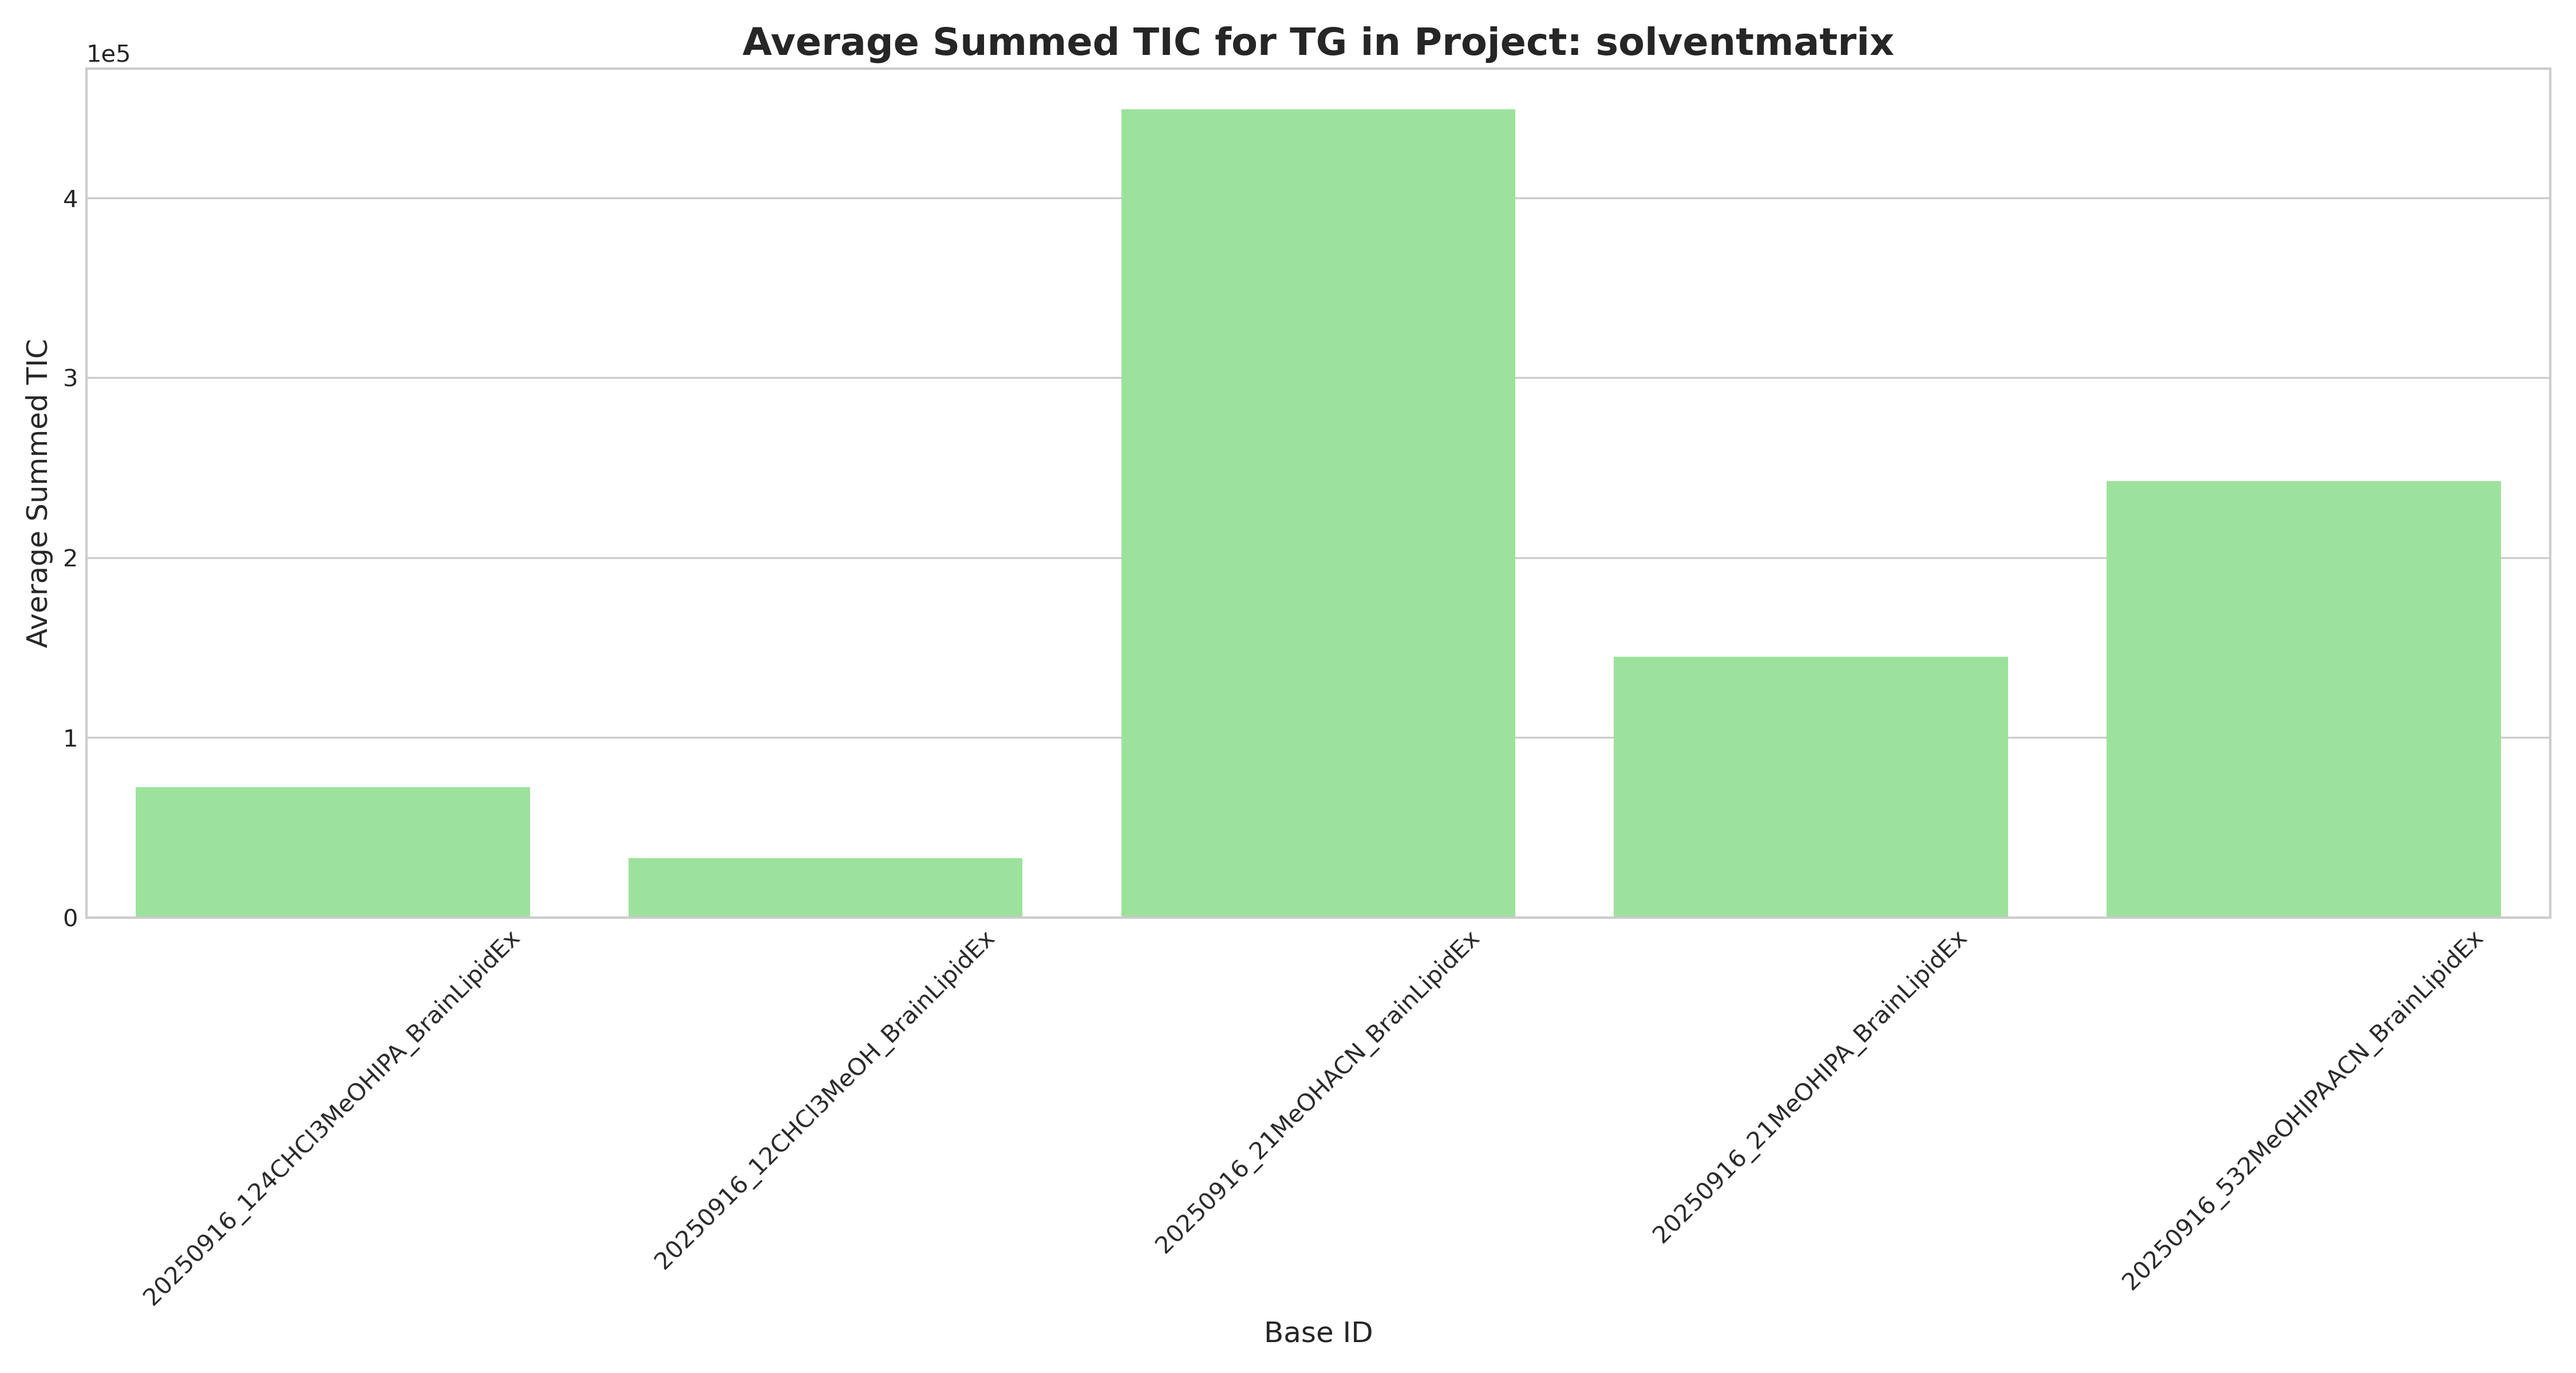
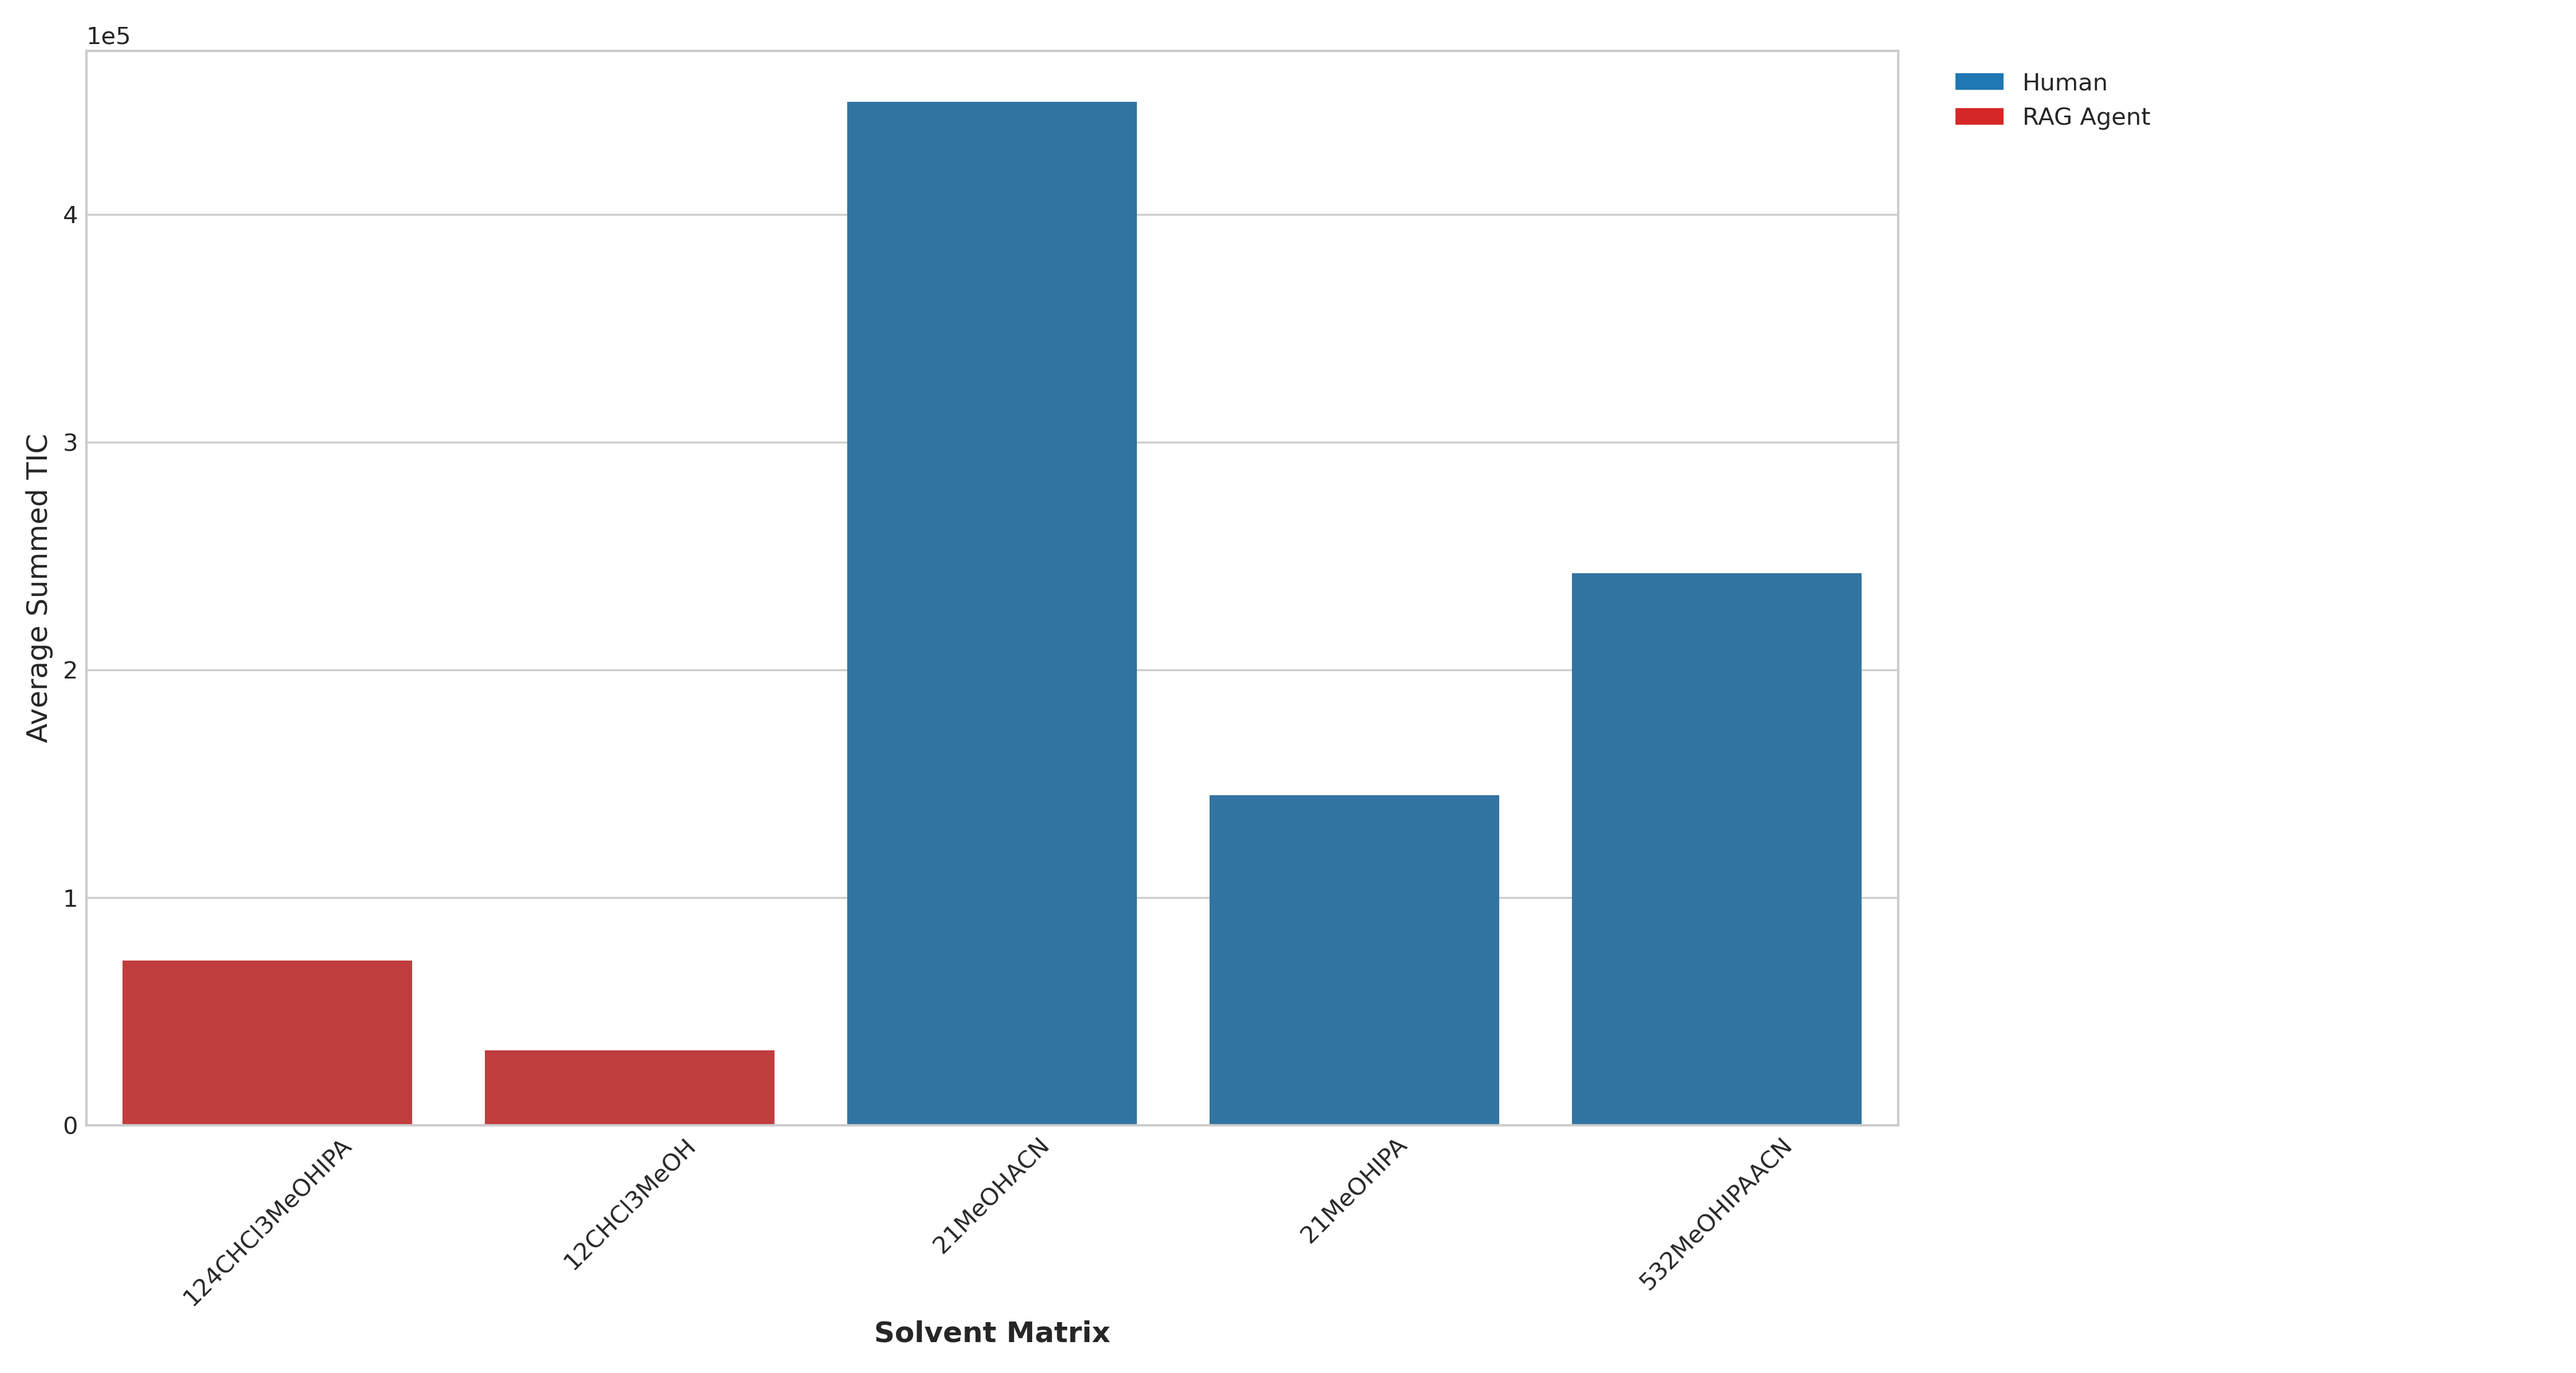
0926 solvent matrix compare

diff --git a/UI_qtrap/react-agent/src/react_agent/Q_viz_intensity_0926_3pm.py b/UI_qtrap/react-agent/src/react_agent/Q_viz_intensity_0926_3pm.py
@@ -66,6 +66,8 @@ def assign_colors_by_solvent_type(solvent_matrices: List[str]) -> Dict[str, str]
             color_map[matrix] = '#1f77b4'  # Blue
         elif matrix.startswith(('124CH', '12CH')):
             color_map[matrix] = '#d62728'  # Red
+        else:
+            color_map[matrix] = '#2ca02c'  # Green (default for others)
     return color_map
 
 # --- Data Processing Functions ---
@@ -124,7 +126,6 @@ def create_highest_tic_plot(df: pd.DataFrame, output_dir: str, project_name: str
     if '#d62728' in used_colors:
         legend_elements.append(Patch(facecolor='#d62728', label='RAG Agent'))
 
-
     ax.legend(handles=legend_elements, bbox_to_anchor=(1.02, 1), loc='upper left')
     
     plt.tight_layout(rect=[0, 0, 0.85, 1]) # Adjust layout
@@ -163,8 +164,10 @@ def create_average_tic_plot(df: pd.DataFrame, output_dir: str, project_name: str
         legend_elements.append(Patch(facecolor='#1f77b4', label='Human'))
     if '#d62728' in used_colors:
         legend_elements.append(Patch(facecolor='#d62728', label='RAG Agent'))
+    if '#2ca02c' in used_colors:
+        legend_elements.append(Patch(facecolor='#2ca02c', label='Other Solvents'))
 
-    ax.legend(handles=legend_elements, bbox_to_anchor=(1.02, 1), loc='upper left')
+    ax.legend(handles=legend_elements, bbox_to_anchor=(1.02, 1), loc='upper left', title='Author')
 
     plt.tight_layout(rect=[0, 0, 0.85, 1]) # Adjust layout
 
